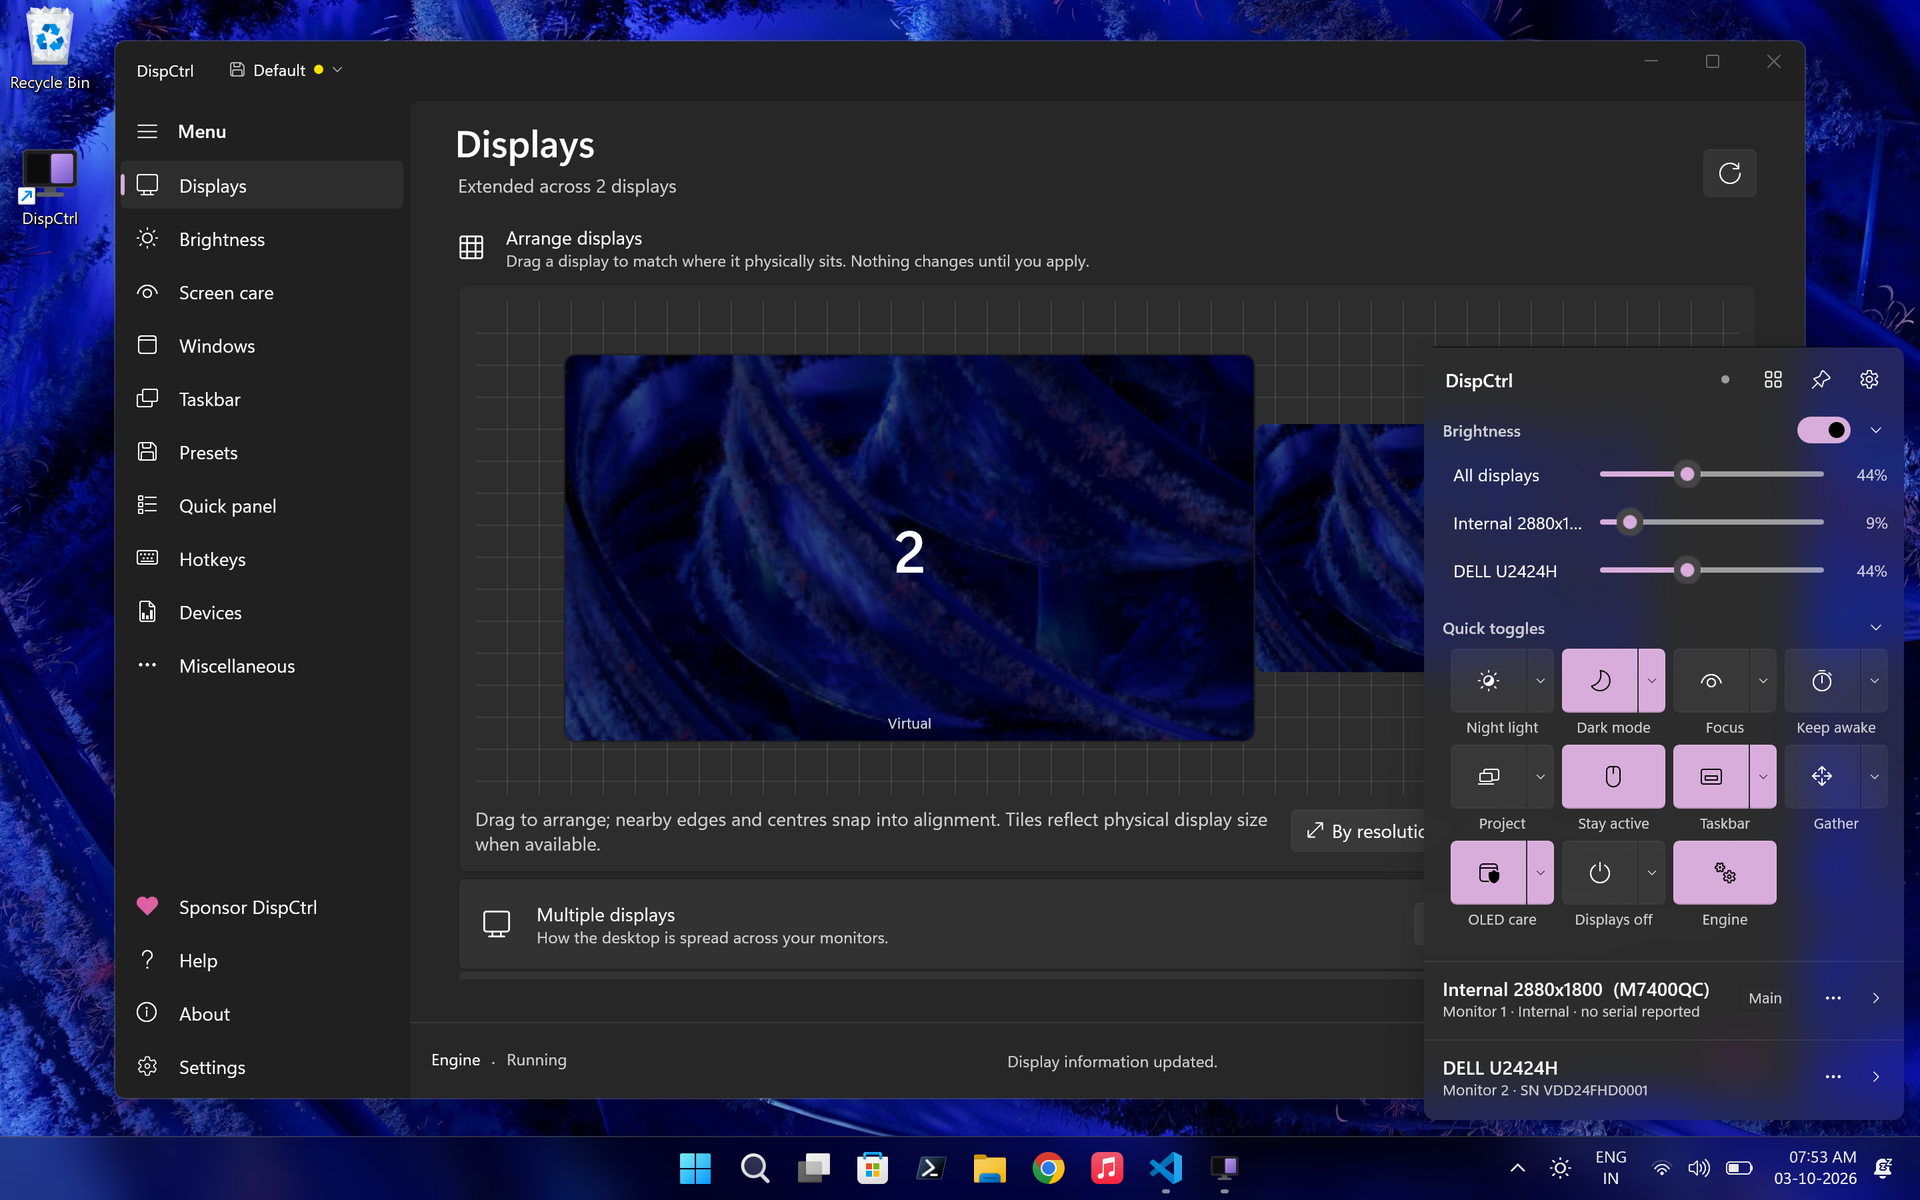
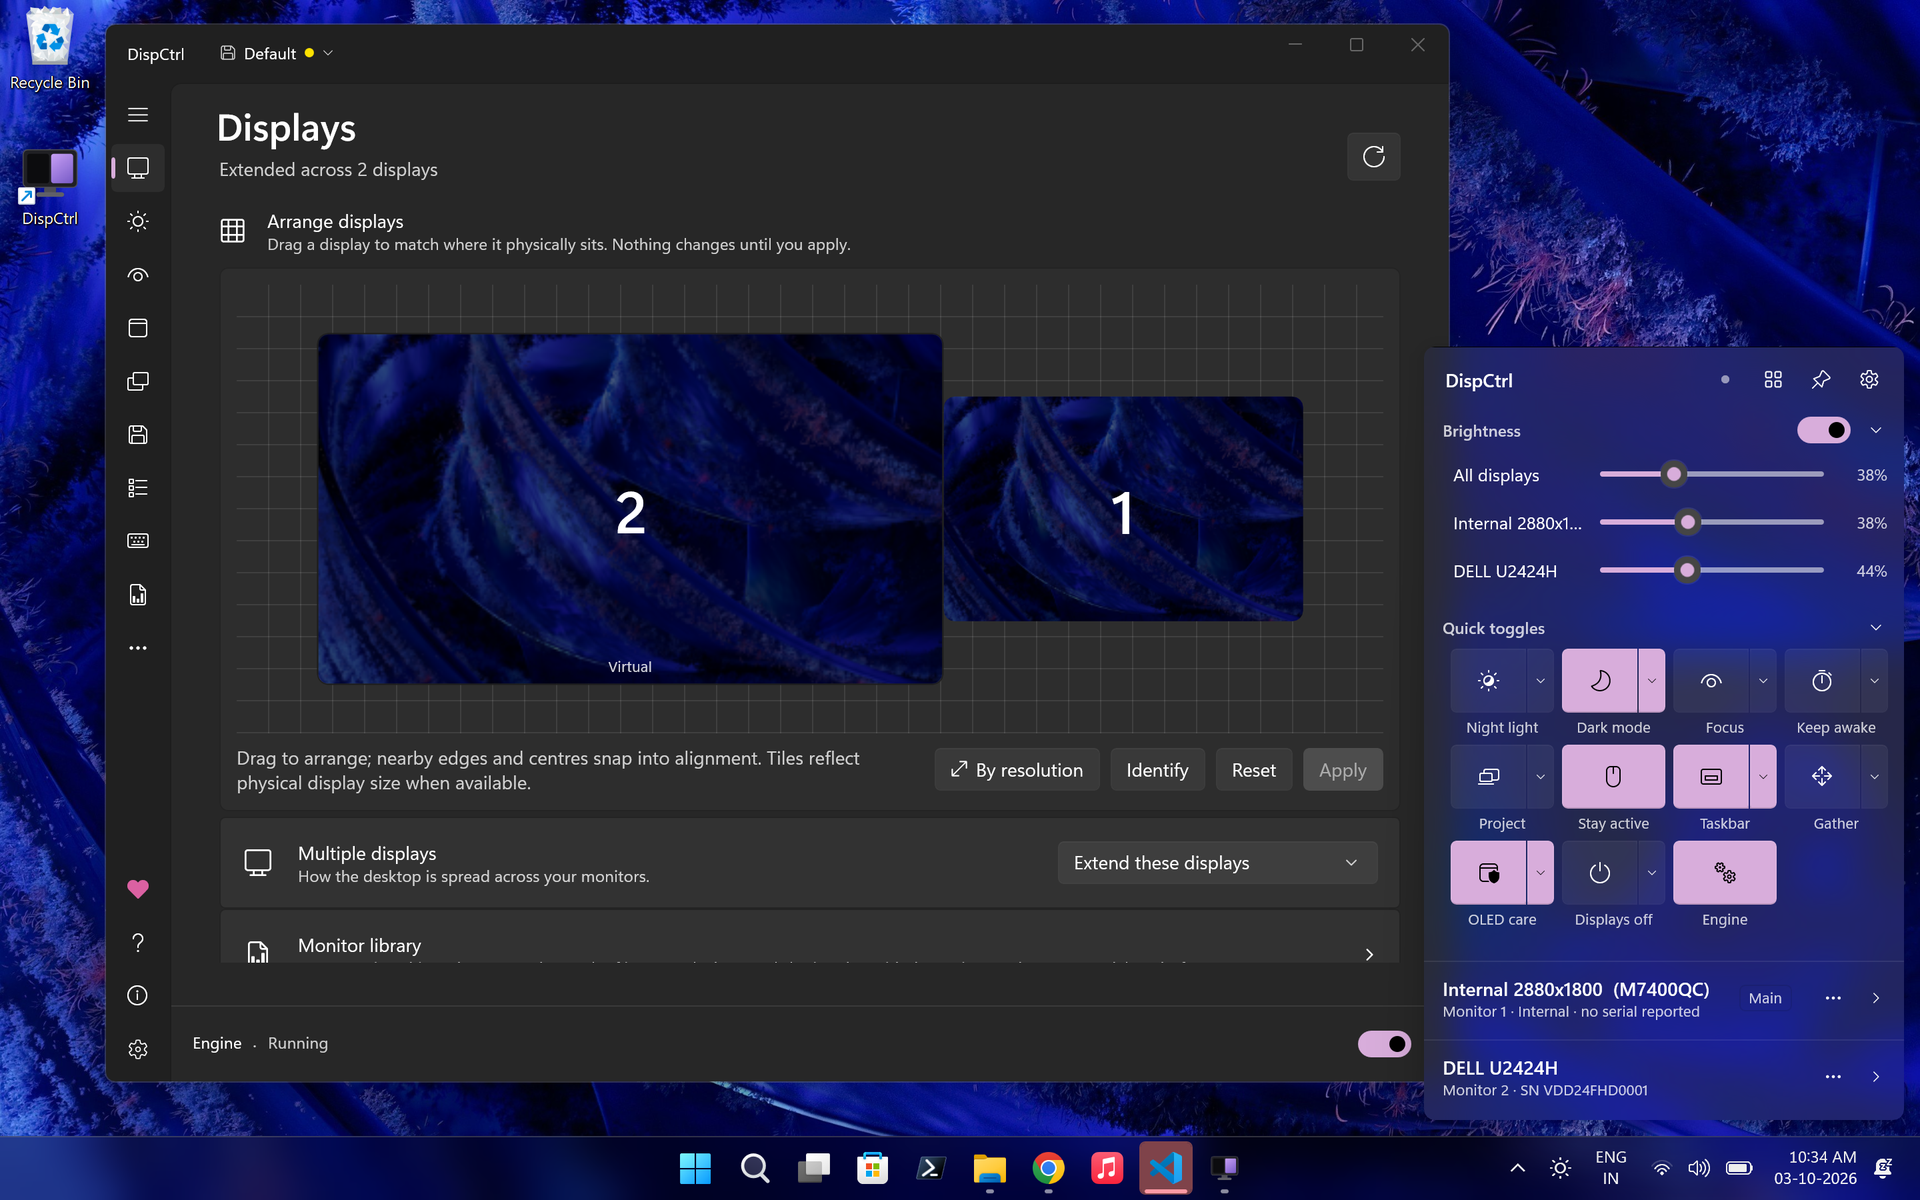
README tour and support sections tidied, and the hero retaken at the app's default size
The tour's two-column table paired a tall quick panel screenshot with a wide page screenshot in one row, so captions and images never lined up. The quick panel now has its own row, the full panel beside Simple mode at the same width and bottom-aligned, and the app's pages follow in a grid where every cell has a one-line caption above an image of the same size. The rarer pages sit under a "More screenshots" fold.

The support section was centred and stacked into a tall column. It is now left-aligned like the rest of the README: one sentence, the three donation badges in a single row, and one sentence naming the free ways to help, with the support page for everything else.

The hero screenshot was taken with the window stretched wide and the navigation pane open, which made the app look bigger than it opens. It is retaken with the window at its default size and the pane collapsed, beside the quick panel, with both displays shown. The image keeps its 1920x1200 size, so the README and the site need no change. Checked by rendering the sections through GitHub's markdown API and looking at the result.

diff --git a/README.md b/README.md
@@ -154,73 +154,64 @@ More shortcuts are set up and switched off on the **Hotkeys** page.
 <img src="site/assets/demo.gif" alt="A tour of DispCtrl: the quick panel, the Displays, Brightness and Screen care pages" width="880">
 </div>
 
+### The quick panel
+
+Click the tray icon: brightness first, everything else a fold away. A new install opens in Simple mode; the dot in the title bar switches to the full panel.
+
 <table>
 <tr>
-<td width="50%" valign="top">
-
-**The quick panel**: brightness first, everything else a fold away
-
-<img src="site/assets/screenshots/quick-panel.png" alt="The quick panel open above the taskbar, with brightness and quick toggles" width="100%">
-
-**Simple mode**, as a new install opens: one slider for every display, and one for each
-
-<img src="site/assets/screenshots/quick-panel-simple.png" alt="The quick panel in Simple mode: one slider for all displays, then one per display" width="100%">
-
+<td width="50%" align="center" valign="bottom">
+<img src="site/assets/screenshots/quick-panel.png" alt="The full quick panel: brightness, quick toggles and each display" width="300"><br>
+<sub><b>The full panel</b></sub>
 </td>
-<td width="50%" valign="top">
-
-**Displays**: the arrangement at real size, and each display's card
-
-<img src="site/assets/screenshots/displays.png" alt="The Displays page with the arrangement and a display's card open" width="100%">
-
-</td>
-</tr>
-<tr>
-<td width="50%" valign="top">
-
-**Brightness**: unison between each display's limits, the room's light, night light
-
-<img src="site/assets/screenshots/brightness.png" alt="The Brightness page with unison brightness and night light" width="100%">
-
-</td>
-<td width="50%" valign="top">
-
-**Screen care**: focus mode, OLED protection, keep awake and displays off
-
-<img src="site/assets/screenshots/screen-care.png" alt="The Screen care page with focus mode and OLED idle protection" width="100%">
-
-</td>
-</tr>
-<tr>
-<td width="50%" valign="top">
-
-**Presets**: a whole desk saved, and what has changed since
-
-<img src="site/assets/screenshots/presets.png" alt="The Presets page listing saved presets" width="100%">
-
-</td>
-<td width="50%" valign="top">
-
-**Hotkeys**: shortcuts, features built from steps, and triggers
-
-<img src="site/assets/screenshots/hotkeys.png" alt="The Hotkeys page with the default shortcuts" width="100%">
-
+<td width="50%" align="center" valign="bottom">
+<img src="site/assets/screenshots/quick-panel-simple.png" alt="The quick panel in Simple mode: one slider for all displays, then one per display" width="300"><br>
+<sub><b>Simple mode</b>, as a new install opens</sub>
 </td>
 </tr>
 </table>
 
+### The app
+
+<table>
+<tr>
+<td width="50%" valign="top"><b>Displays</b>: the arrangement at real size<br><br>
+<img src="site/assets/screenshots/displays.png" alt="The Displays page with the arrangement of two displays" width="100%"></td>
+<td width="50%" valign="top"><b>Brightness</b>: unison, room light, night light<br><br>
+<img src="site/assets/screenshots/brightness.png" alt="The Brightness page with unison brightness and night light" width="100%"></td>
+</tr>
+<tr>
+<td width="50%" valign="top"><b>Screen care</b>: focus, OLED care, keep awake<br><br>
+<img src="site/assets/screenshots/screen-care.png" alt="The Screen care page with focus mode and OLED idle protection" width="100%"></td>
+<td width="50%" valign="top"><b>Presets</b>: a whole desk, saved<br><br>
+<img src="site/assets/screenshots/presets.png" alt="The Presets page listing saved presets" width="100%"></td>
+</tr>
+<tr>
+<td width="50%" valign="top"><b>Hotkeys</b>: shortcuts, features, triggers<br><br>
+<img src="site/assets/screenshots/hotkeys.png" alt="The Hotkeys page with the default shortcuts" width="100%"></td>
+<td width="50%" valign="top"><b>Taskbar</b>: hiding, glass, reveal timing<br><br>
+<img src="site/assets/screenshots/taskbar.png" alt="The Taskbar page with glass, opacity and reveal behaviour" width="100%"></td>
+</tr>
+</table>
+
 <details>
-<summary><b>More screenshots</b>: taskbar, devices, the quick panel's own settings, Settings</summary>
+<summary><b>More screenshots</b>: devices, the quick panel's own settings, Settings</summary>
 
 <br>
 
-<img src="site/assets/screenshots/taskbar.png" alt="The Taskbar page with glass, opacity and reveal behaviour" width="880">
-
-<img src="site/assets/screenshots/devices.png" alt="The Devices page with a monitor's codes" width="880">
-
-<img src="site/assets/screenshots/quick-panel-settings.png" alt="The Quick panel page: what the panel shows and how" width="880">
-
-<img src="site/assets/screenshots/settings.png" alt="The Settings page: engine, updates and maintenance" width="880">
+<table>
+<tr>
+<td width="50%" valign="top"><b>Devices</b>: each monitor's controls<br><br>
+<img src="site/assets/screenshots/devices.png" alt="The Devices page with a monitor's details" width="100%"></td>
+<td width="50%" valign="top"><b>Quick panel</b>: what it shows and how<br><br>
+<img src="site/assets/screenshots/quick-panel-settings.png" alt="The Quick panel page: what the panel shows and how" width="100%"></td>
+</tr>
+<tr>
+<td width="50%" valign="top"><b>Settings</b>: engine, updates, maintenance<br><br>
+<img src="site/assets/screenshots/settings.png" alt="The Settings page: engine, updates and maintenance" width="100%"></td>
+<td width="50%" valign="top"></td>
+</tr>
+</table>
 
 </details>
 
@@ -291,23 +282,11 @@ On Linux, macOS or WSL, `./build.sh setup`, `build` and `test` build everything 
 
 ## Support the project
 
-<div align="center">
+DispCtrl is free and open source, made in spare time. A donation pays for development and for monitors to test on.
 
-### Help build a better desk for everyone
+[![Sponsor on GitHub](https://img.shields.io/badge/Sponsor_on_GitHub-db61a2?style=for-the-badge&logo=githubsponsors&logoColor=white)](https://github.com/sponsors/jesvijonathan) [![Donate with PayPal](https://img.shields.io/badge/Donate_with_PayPal-0070ba?style=for-the-badge&logo=paypal&logoColor=white)](https://paypal.me/jesvijon) [![Donate with UPI](https://img.shields.io/badge/Donate_with_UPI-168a5b?style=for-the-badge)](https://jesvijonathan.github.io/DispCtrl/#upi)
 
-DispCtrl is free and open source, built in spare time.<br>
-Your support funds development and more monitors to test on.
-
-[![Sponsor on GitHub](https://img.shields.io/badge/Sponsor_on_GitHub-db61a2?style=for-the-badge&logo=githubsponsors&logoColor=white)](https://github.com/sponsors/jesvijonathan)
-[![Donate with PayPal](https://img.shields.io/badge/Donate_with_PayPal-0070ba?style=for-the-badge&logo=paypal&logoColor=white)](https://paypal.me/jesvijon)
-[![Donate with UPI](https://img.shields.io/badge/Donate_with_UPI-168a5b?style=for-the-badge)](https://jesvijonathan.github.io/DispCtrl/#upi)
-
-[Visit the support page](https://jesvijonathan.github.io/DispCtrl/#support)
-
-**Every contribution helps.**<br>
-[Star the repository](https://github.com/jesvijonathan/DispCtrl) · [Share your monitor](#contributing) · [Report a bug](https://github.com/jesvijonathan/DispCtrl/issues)
-
-</div>
+Helping costs nothing, too: [star the repository](https://github.com/jesvijonathan/DispCtrl), [share your monitor](#contributing) or [report a bug](https://github.com/jesvijonathan/DispCtrl/issues). Every way to give, including a UPI QR code, is on the [support page](https://jesvijonathan.github.io/DispCtrl/#support).
 
 ## Licence
 
